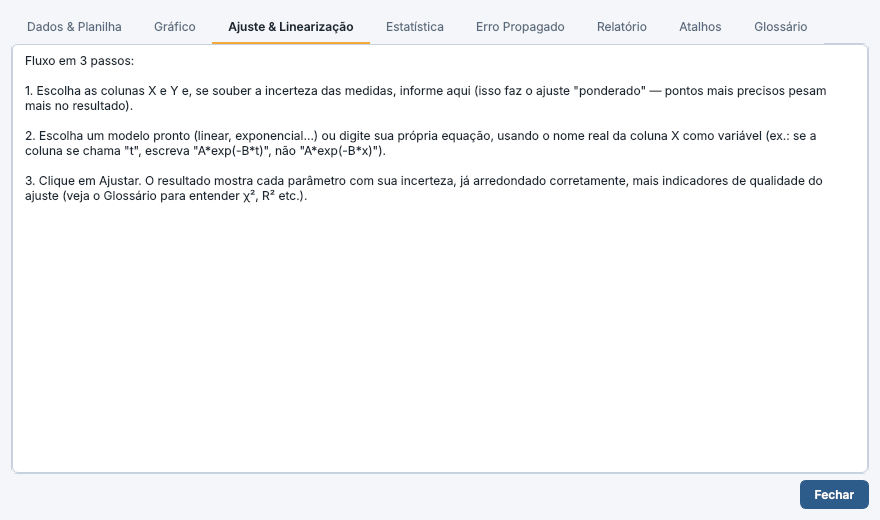
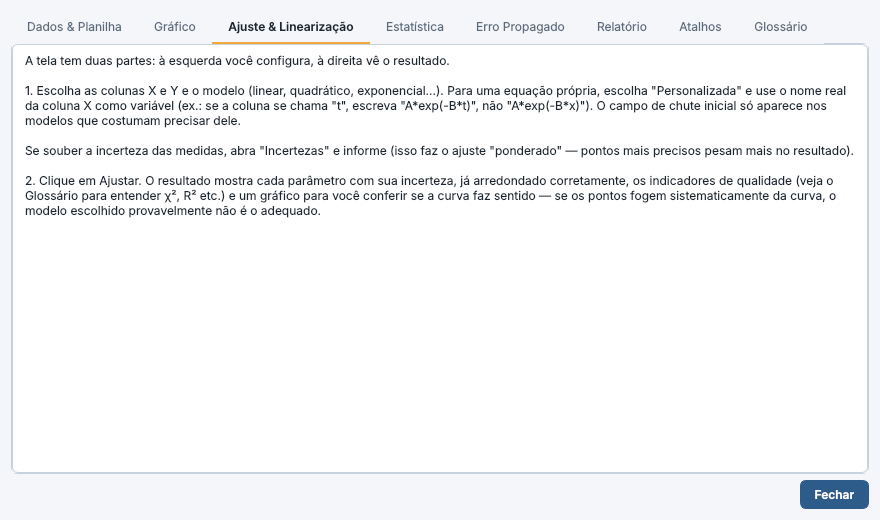
Atualiza página: licença, metas e novos screenshots

Changed region(s): [[0.0307, 0.1538, 0.9818, 0.3077], [0.0307, 0.3385, 0.9511, 0.4308], [0.0307, 0.0923, 0.5216, 0.1231]]

diff --git a/index.html b/index.html
@@ -103,11 +103,11 @@
     <div class="prose">
       <h2>Ajuste com incertezas</h2>
       <p>Modelos linear, quadrático, lei de potência e exponencial, ou uma equação livre escrita com o nome real das colunas. Quando o aluno informa a incerteza das medidas, o ajuste é ponderado: pontos mais precisos pesam mais.</p>
-      <p>O resultado traz cada parâmetro com sua incerteza já arredondada pela regra do laboratório (erro com um algarismo significativo), além de χ², χ² reduzido, R², coeficiente de correlação e graus de liberdade.</p>
+      <p>A tela mostra só o essencial: colunas, modelo e o botão Ajustar. Incertezas e chute inicial aparecem quando o modelo pede ou o aluno abre a seção. O resultado traz cada parâmetro numa tabela, com sua incerteza já arredondada pela regra do laboratório (erro com um algarismo significativo), além de χ², χ² reduzido, R², coeficiente de correlação e graus de liberdade, e um gráfico para conferir se a curva faz sentido.</p>
     </div>
     <figure class="narrow">
       <a href="img/ajuste.png" target="_blank" rel="noopener"><img src="img/ajuste.png" width="1280" height="800" loading="lazy" alt="Tela de ajuste com o modelo linear escolhido e o resultado: a igual a 4,03 mais ou menos 0,03, b igual a menos 0,00 mais ou menos 0,02, R ao quadrado 0,99943."></a>
-      <figcaption><b>Figura 3.</b> Ajuste linear de T² em função de L. O coeficiente angular, 4,03 s²/m, vale 4π²/g; com ele o aluno calcula g.</figcaption>
+      <figcaption><b>Figura 3.</b> Tela de ajuste: configuração à esquerda, resultado e gráfico à direita. Ajuste linear de T² em função de L. O coeficiente angular, 4,03 s²/m, vale 4π²/g; com ele o aluno calcula g.</figcaption>
     </figure>
   </div>
 </section>
@@ -179,7 +179,7 @@
       <div><dt>Salvamento automático</dt><dd>Versões periódicas da pasta de trabalho, com opção de recuperar uma versão anterior.</dd></div>
       <div><dt>Desfazer e refazer</dt><dd>Edição de célula, coluna, linha, outlier, importação e template podem ser desfeitos.</dd></div>
       <div><dt>Registro de erros</dt><dd>Falhas inesperadas ficam gravadas em arquivo de log, para diagnóstico.</dd></div>
-      <div><dt>Testes automatizados</dt><dd>202 testes cobrem cálculo, ajuste, relatório e partes da interface. Nenhum item é dado como pronto sem teste com dados reais.</dd></div>
+      <div><dt>Testes automatizados</dt><dd>216 testes cobrem cálculo, ajuste, relatório e partes da interface. Nenhum item é dado como pronto sem teste com dados reais.</dd></div>
       <div><dt>Quatro temas</dt><dd>Sistema, claro, escuro e alto contraste, com cores de célula calculadas para manter a leitura em qualquer um.</dd></div>
       <div><dt>Funciona offline</dt><dd>Roda localmente, sem conta e sem enviar dados para a internet.</dd></div>
     </dl>
